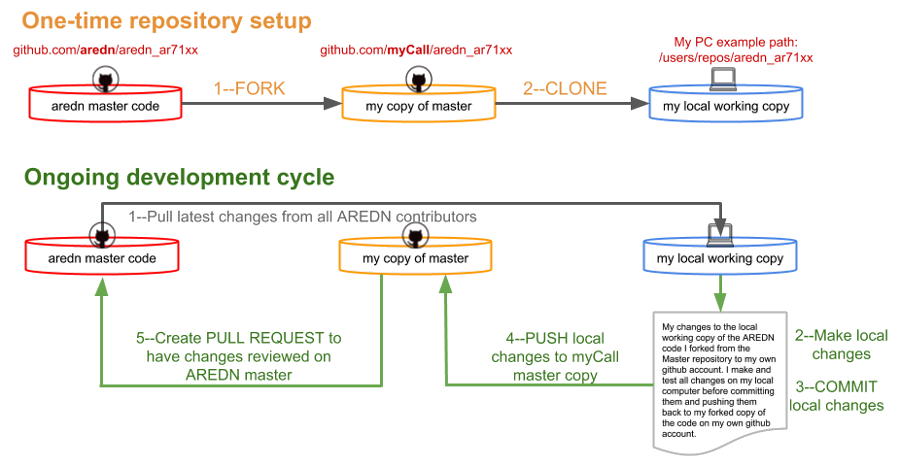
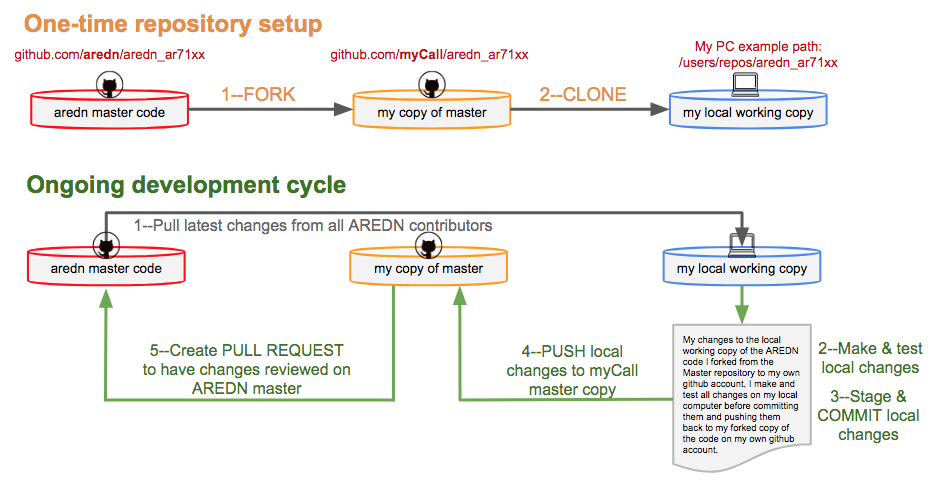
Clarify commit process
Clarify commit process in the steps to contribute to AREDN using git.

diff --git a/How to Use GitHub for AREDN.md b/How to Use GitHub for AREDN.md
@@ -47,8 +47,9 @@ Now your local environment knows about both the master code repository and your 
 	7. Resolve any conflicts that need to be merged if warned in the step above.
 	8. Final build and validation that your changes work on top of the latest changes from all of the AREDN contributors.
 5. `Commit` your changes to your local repository, then `Push` the changes to your own GitHub repository.
-	1. `git commit`
-	2. `git push origin my-wiz-bang-feature-name`
+	1. `git add any-changed-files` (stage changes for commit)
+	2. `git commit` (commit changes with a meaningful commit message)
+	3. `git push origin my-wiz-bang-feature-name`
 6. Create a `Pull Request` (PR) to the AREDN master repository by browsing to `github.com/myCall/aredn_ar71xx`, then select the my-wiz-bang-feature-name branch. Click the `New Pull Request` button to generate your Pull Request. Others can now review your code, test it, and give feedback. If feedback is given and you need to make changes, go back to step 3.
 7. Once your changes have been accepted into the AREDN master repository, delete your branch:
 	1. On your local repository: `git branch -D my-wiz-bang-feature-name`
